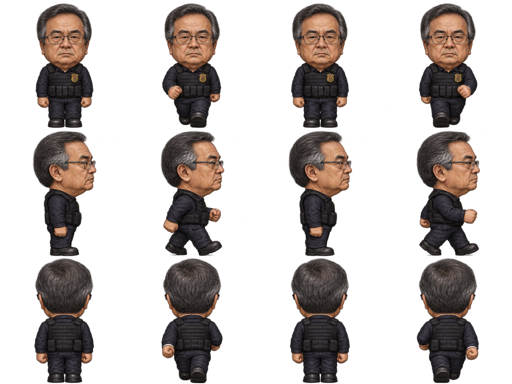
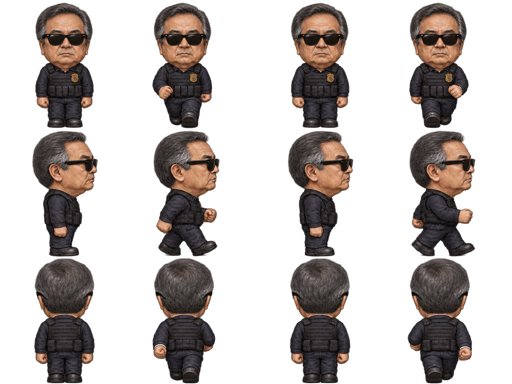
art(infiltrados): use dark Wayfarer sunglasses on Federal agent

diff --git a/docs/infiltrados-japones-federal-sprites.md b/docs/infiltrados-japones-federal-sprites.md
@@ -18,6 +18,13 @@ caminhada; `sergio-moro-safe-breach.webp` para a ação de arrombamento. A folha
 de caminhada gerada foi usada como referência de identidade no arrombamento.
 As saídas foram reduzidas com `sips`, preservando o canal alfa.
 
+Correção de identidade: ambas as folhas usam óculos escuros de lentes opacas
+e armação preta no estilo Wayfarer, conforme a foto fornecida pelo Rafael.
+As folhas originais foram editadas com ImageGen preservando poses e grade.
+Prompt da correção: substituir apenas os óculos transparentes pelos óculos
+escuros da foto em todos os frames frontais e laterais; preservar identidade,
+roupa, ferramenta, direções, proporções, alinhamento e transparência.
+
 ## Prompts finais
 
 Caminhada:
